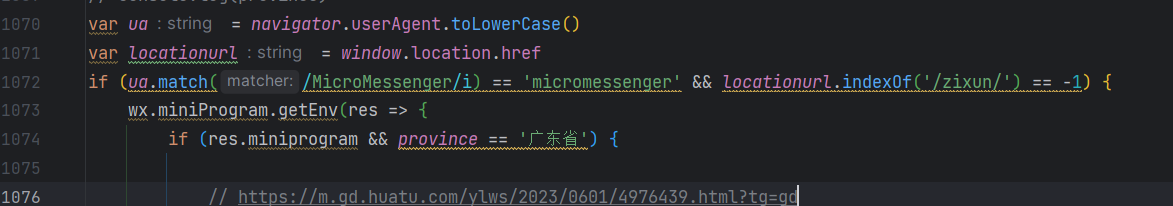
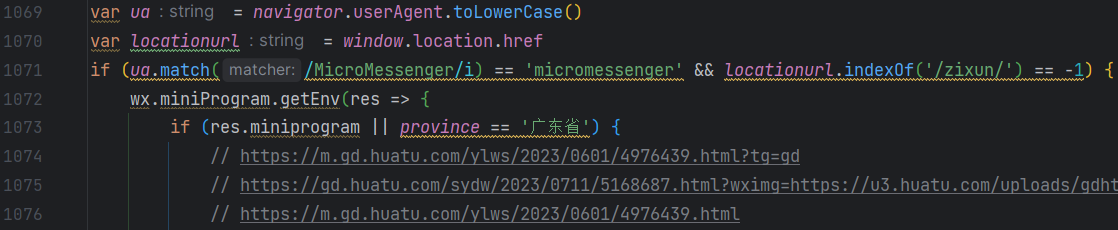
需求11

diff --git a/Demands/11-微信小程序环境领取附件也是根据ip显示二维码/gdxcxfunction.js b/Demands/11-微信小程序环境领取附件也是根据ip显示二维码/gdxcxfunction.js
@@ -10,7 +10,6 @@ function xcx1(url) {
                 wxtc(url)
                 event.preventDefault()
             } else {
-                //if(window.location.href.indexOf("https://m.qingyuan.huatu.com/2023/0317/4332722.html") != -1){
                 if (0) {
                     if (1) {
                         //if(localStorage.getItem('gdht_wxlogin_type')){
@@ -1071,8 +1070,7 @@ var ua = navigator.userAgent.toLowerCase()
 var locationurl = window.location.href
 if (ua.match(/MicroMessenger/i) == 'micromessenger' && locationurl.indexOf('/zixun/') == -1) {
     wx.miniProgram.getEnv(res => {
-        if (res.miniprogram && province == '广东省') {
-
+        if (res.miniprogram || province == '广东省') {
             // https://m.gd.huatu.com/ylws/2023/0601/4976439.html?tg=gd
             // https://gd.huatu.com/sydw/2023/0711/5168687.html?wximg=https://u3.huatu.com/uploads/gdht/all/2023/0711/1689046551.png&amp;poptype=1&amp;popkey=
             // https://m.gd.huatu.com/ylws/2023/0601/4976439.html

diff --git a/Demands/11-微信小程序环境领取附件也是根据ip显示二维码/11-微信小程序环境领取附件也是根据ip显示二维码.md b/Demands/11-微信小程序环境领取附件也是根据ip显示二维码/11-微信小程序环境领取附件也是根据ip显示二维码.md
@@ -3,6 +3,34 @@
 现在又多了一个（之前就有，我第一次见而已）<br>
 有一个微信小程序的页面（环境），现在需要在这个页面领取附件的二维码弹窗也显示根据ip显示二维码 <br>
 
+### 网页领取附件js顺序：
+
+> 1.首先判断当前是pc还是移动端，如下，分别进入不同的js（区别编码不同）
+>```javascript
+>if(window.location.href.indexOf("https://m.")=='-1'){
+>document.write('<script src="https://gd.huatu.com/zt/js/gdxcxfunction-gbk.js" ><\/script>');
+>}else{
+>document.write('<script src="https://gd.huatu.com/zt/js/gdxcxfunction.js" ><\/script>');
+>}
+>```
+>
+>2.再根据这个链接携带的参数进入gdxcxfunction.js里面对应的方法（目前都是进入function xcx1(url)这个方法）<br>
+> ```javascript
+> function xcx(url, text, pic) {
+> if ((typeof (url) != 'undefined') && (typeof (text) != 'undefined') && (typeof (pic) != 'undefined')) {
+>       xcx3(url, text, pic);
+>  } else if ((typeof (url) != 'undefined') && (typeof (text) != 'undefined') && !(typeof (pic) != 'undefined')) {
+>     xcx2(url, text);
+>  } else if ((typeof (url) != 'undefined') && !(typeof (text) != 'undefined') && !(typeof (pic) != 'undefined')) {
+>    xcx1(url);
+>  } else {
+>     }
+> }
+>```
+>下图是html中链接的点击源码
+><div> <img src="img_4.png" width = 720 alt=""> </div> <br>
+>具体修改逻辑就在gdxcxfunction.js修改就好。
+
 没改之前的环境：<br>
 
 1. 第一个是pc浏览器，直接登录领取附件<br>
@@ -18,12 +46,27 @@
 修改后 <br>
 <div> <img src="img_1.png" width="500" alt=""></div> <br>
 
-#### 上面改的遇到小程序环境会跳到wxtc方法，也要改添加特定弹窗
+#### 上面改的遇到小程序环境会跳到wxtc方法，也要改遇到小程序环境添加特定弹窗
 
 修改前：<br>
-<div> <img src="img_2.png" width="700" alt=""></div> <br>
+<div> <img src="img_2.png" width="720" alt=""></div> <br>
 
 修改后：<br>
-<div> <img src="img_3.png" width="700" alt=""></div> <br>
+<div> <img src="img_3.png" width="720" alt=""></div> <br>
 
+修改后的xcxforminiprom1不再用，因直接跳到wxtc函数中<br>
 
+基本逻辑：<br>
+
+1. 微信浏览器环境 ->
+2. 小程序环境 ->
+3. 判断ip的Ajax ->
+4. 如果是微信浏览器环境 && 地址不带'/zixun/' ->
+5. 是小程序环境或者ip在广东省 ->
+6. 地址符合 m.gd || gd. 并且地址不含 '?tg=' 和 '&amp;poptype=1&amp;popkey=' ->
+7. 插入ip弹窗 ->>>
+8. 否则 域名是对的gd.huatu.com，但是带有特殊标签 -> 默认弹窗
+9. ip在广东省，但不是gd.huatu.com的域名，即地市的域名 -> 默认弹窗
+10. 否则 ip不在广东省-> 默认弹窗
+
+## 至此完成
